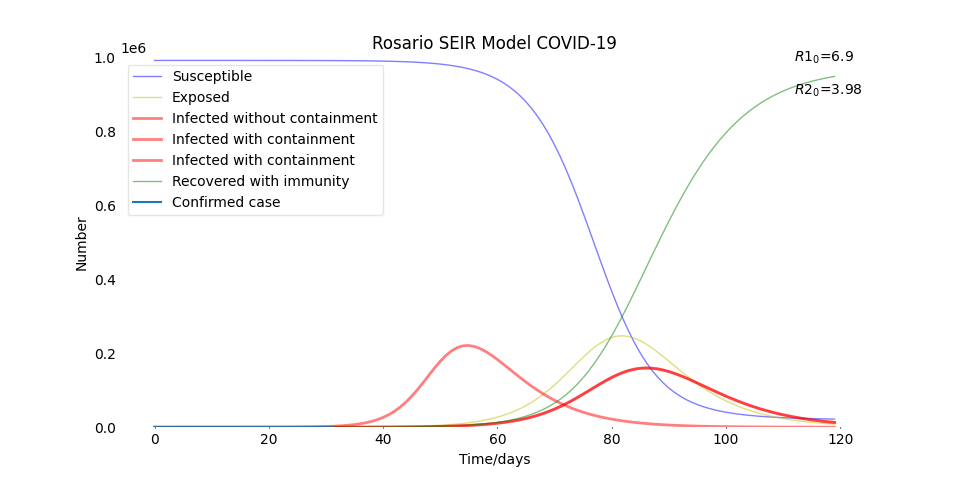
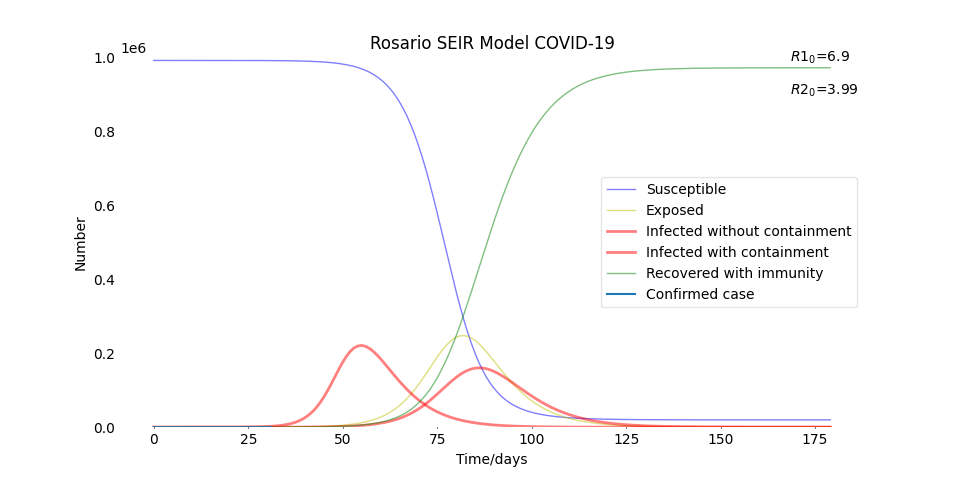
fix charts

diff --git a/SEIR-model/SEIR-model.py b/SEIR-model/SEIR-model.py
@@ -13,11 +13,11 @@ import math
 
 # General 
 y_axis = 1000000
-x_axis = 120 
+x_axis = 180 
 
 # Zoom
-#y_axis = 100 
-#x_axis = 35 
+y_axis = 100 
+x_axis = 35 
 
 # Model parameters
 N = 992323
@@ -93,10 +93,9 @@ ax.plot( S2, 'b', alpha=0.5, lw=1, label='Susceptible')
 ax.plot( E2, 'y', alpha=0.5, lw=1, label='Exposed')
 ax.plot( I1, 'r', alpha=0.5, lw=2, label='Infected without containment')
 ax.plot( I2, 'r', alpha=0.5, lw=2, label='Infected with containment')
-ax.plot( I2, 'r', alpha=0.5, lw=2, label='Infected with containment')
 ax.plot( R2, 'g', alpha=0.5, lw=1, label='Recovered with immunity')
 ax.plot( x, '-', label='Confirmed case')
-#ax.plot( I2, 'o', color='red',label='Free containment')
+ax.plot( I2, 'o', color='red',label='Free containment')
 
 ax.annotate("$R1_{0}$="+ ro1, xy=(0.9,0.99),xycoords='axes fraction', fontsize=10)
 ax.annotate("$R2_{0}$="+ ro2, xy=(0.9,0.9),xycoords='axes fraction', fontsize=10)
